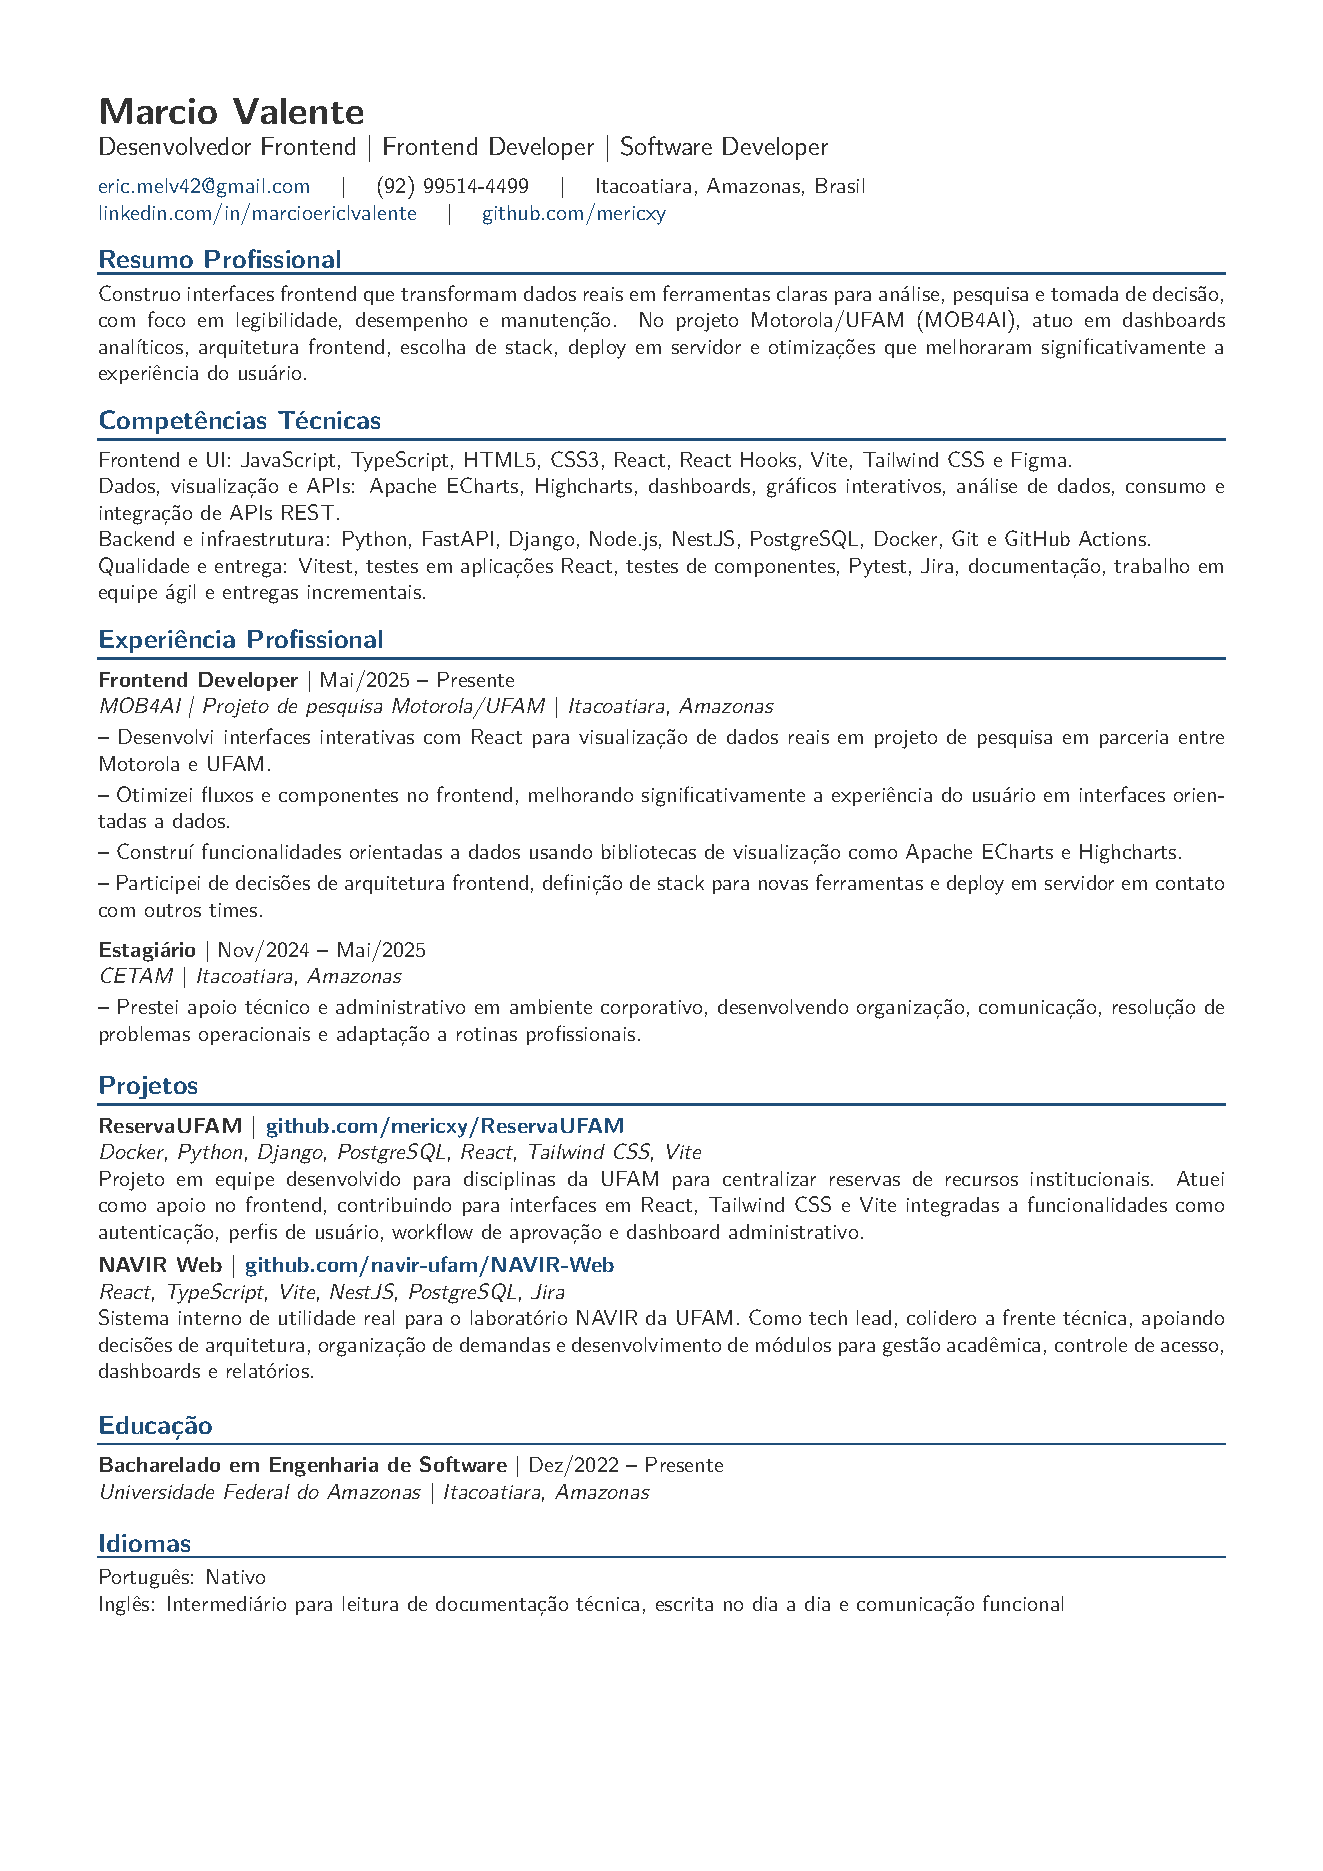
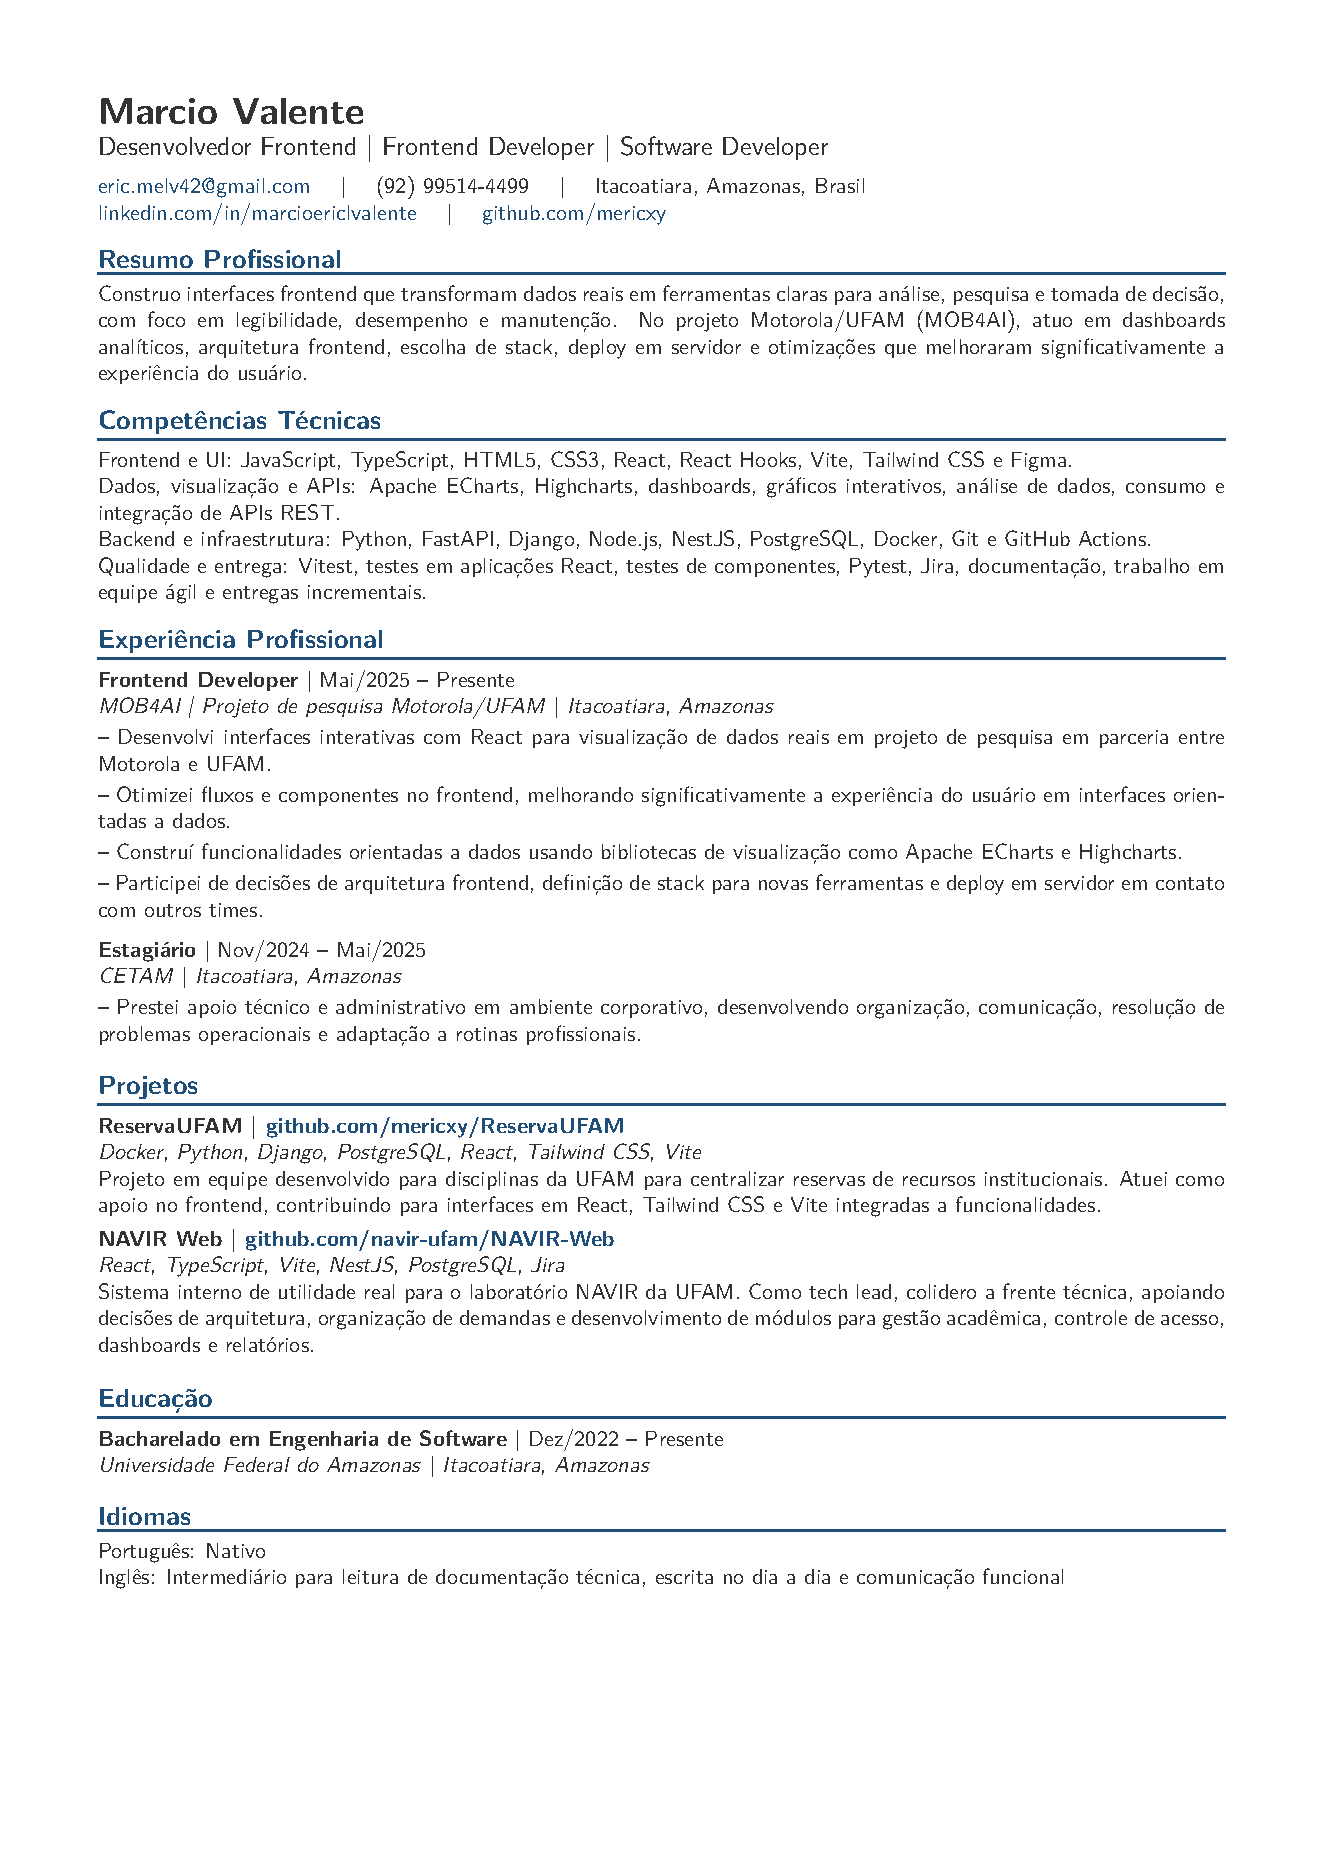
Simplify resume project description

diff --git a/main.tex b/main.tex
@@ -85,7 +85,7 @@ Qualidade e entrega: Vitest, testes em aplicações React, testes de componentes
 \achievement{Prestei apoio técnico e administrativo em ambiente corporativo, desenvolvendo organização, comunicação, resolução de problemas operacionais e adaptação a rotinas profissionais.}
 
 \sectiontitle{Projetos}
-\project{ReservaUFAM | \href{https://github.com/mericxy/ReservaUFAM}{github.com/mericxy/ReservaUFAM}}{Docker, Python, Django, PostgreSQL, React, Tailwind CSS, Vite}{Projeto em equipe desenvolvido para disciplinas da UFAM para centralizar reservas de recursos institucionais. Atuei como apoio no frontend, contribuindo para interfaces em React, Tailwind CSS e Vite integradas a funcionalidades como autenticação, perfis de usuário, workflow de aprovação e dashboard administrativo.}
+\project{ReservaUFAM | \href{https://github.com/mericxy/ReservaUFAM}{github.com/mericxy/ReservaUFAM}}{Docker, Python, Django, PostgreSQL, React, Tailwind CSS, Vite}{Projeto em equipe desenvolvido para disciplinas da UFAM para centralizar reservas de recursos institucionais. Atuei como apoio no frontend, contribuindo para interfaces em React, Tailwind CSS e Vite integradas a funcionalidades.}
 
 \project{NAVIR Web | \href{https://github.com/navir-ufam/NAVIR-Web}{github.com/navir-ufam/NAVIR-Web}}{React, TypeScript, Vite, NestJS, PostgreSQL, Jira}{Sistema interno de utilidade real para o laboratório NAVIR da UFAM. Como tech lead, colidero a frente técnica, apoiando decisões de arquitetura, organização de demandas e desenvolvimento de módulos para gestão acadêmica, controle de acesso, dashboards e relatórios.}
 
